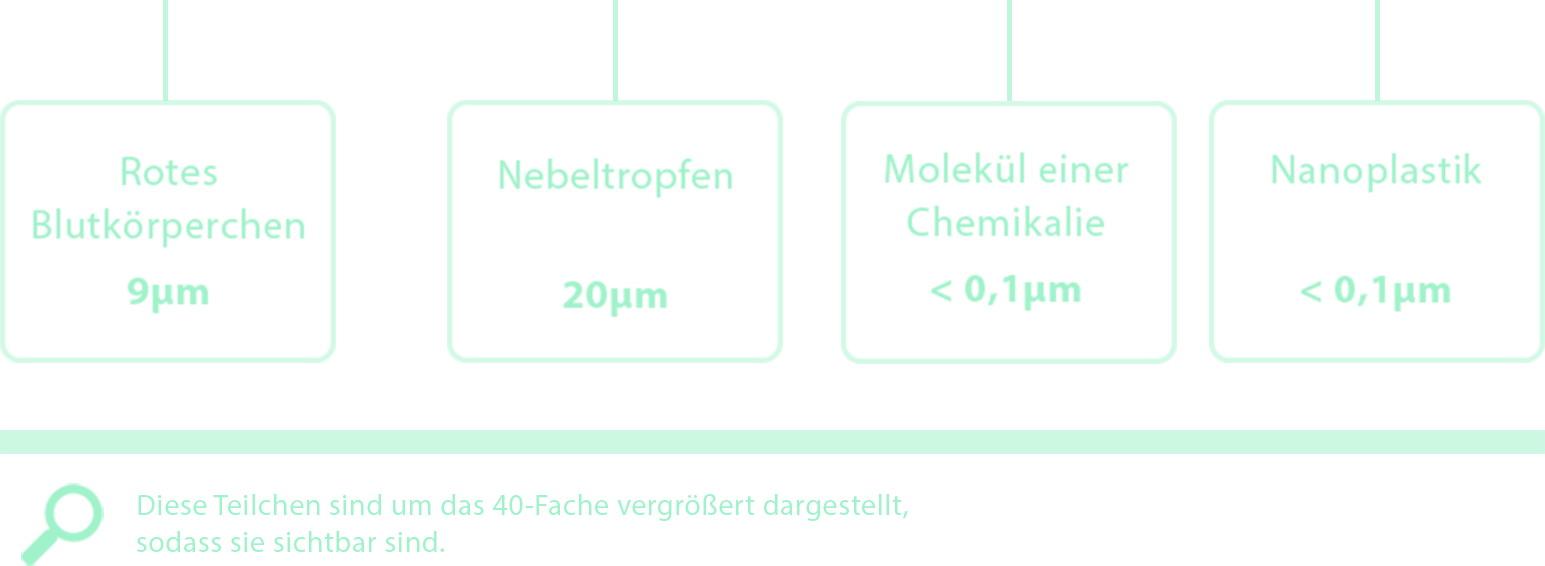
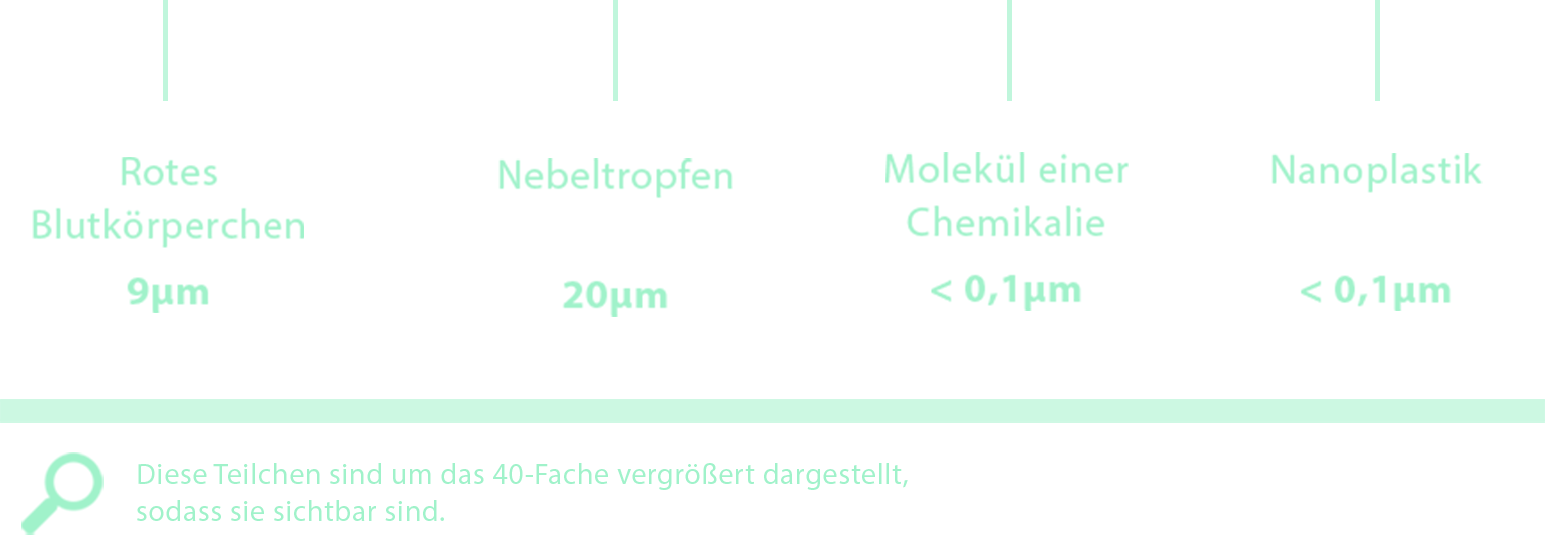
overall improvements

diff --git a/static/index.html b/static/index.html
@@ -212,14 +212,14 @@
          data-10100="top: -100%;">
 
         <img src="new_images/third/HG_Verlauf_Screen3.png"
-             style="top:0%; left: 0%; width:100%;"
+             style="top:0%; left: 0%; width:100%; height: 100%;"
                 data-5500="opacity: 0;"
                 data-6000="opacity: 1;"
                 data-9000="opacity: 1;"
                 data-9500="opacity: 0;">
 
         <img src="new_images/third/Textkasten_Screen_3.png"
-             style="top:13.2%; left: 7%; height:26.4%;"
+             style="top:12.4%; left: 9.2%; height:17.7%;"
                 data-5500="opacity: 0;"
                 data-6500="opacity: 1;">
 
@@ -229,16 +229,16 @@
              style="top:11.4%; left: 9.7%; height:79.8%; animation-delay: 0.5s;">
 
         <img src="new_images/third/Beschriftung_Nicht vergrößerte Teilchen.png"
-             style="top:11.4%; left: 9.7%; height:79.8%;">
+             style="top:11.4%; left: 10%; height:79.8%;">
 
         <img src="new_images/third/Vergrößerte Teilchen.png"
              class="wiggle"
-             style="left: 21.7%; top: 47.1%; height:13.6%; animation-delay: 0.1s; .transform-origin(50%, 50%);"
+             style="left: 21.5%; top: 46.6%; height:13.6%; animation-delay: 0.1s; .transform-origin(50%, 50%);"
              data-6500="opacity: 0;"
              data-7500="opacity: 1;">
 
         <img src="new_images/third/Beschriftung_Vergrößerte Teilchen.png"
-             style="top:61.2%; left: 19.8%; height:26.2%; animation-delay: 0.12s;"
+             style="top:62%; left: 19.8%; height:24.7%; animation-delay: 0.12s;"
              data-7500="top:100%;"
              data-8500="top:61.7%;">
 
@@ -432,10 +432,10 @@
                  The important thing is to assign center_image class to the parent of the image-->
 
             <div class="side_text"
-                 style="width: 30%;  height: 100%; position: relative;">
+                 style="width: 30%;  height: 100%; position: relative; background-color: #322d3a;">
 
                 <img src="new_images/sixth/Textkasten_Überschrift_Screen 6.png"
-                style="width: 80%; margin: 5% auto;" />
+                style="margin: 7.4% 15% 5% 15%;" />
 
                 <span class="icon_toggle_container">
                     <p style="width: 30px; margin: 0;"></p>
@@ -496,15 +496,23 @@
 
             <div class="center_text"
                  style="width: 70%;  height: 100%; position: relative;">
+
                 <img id="health_toggle"
                      class="toggle_button"
                      src="new_images/sixth/Button_Auswirkungen.png"
+                     style="position: absolute; top: 4.7%; left: 4.7%; height: 4.3%; margin: 0;"
                      onclick="toggle_health_products()"/>
 
 
                 <img id="health_issue_picture"
-                     src="image/Screen_6_Menschen_vorne.png"
+                     src=""
                      style="width: 70%; margin: auto;">
+
+
+                <img id="health_label"
+                     src="new_images/sixth/Box_BPA_Kunststoffarten.png"
+                     style="position: absolute; top: 4.7%; right: 0%; height: 4.3%;">
+
             </div>
 
 
@@ -568,7 +576,7 @@
             <br>
             Diese Website entstand im Rahmen einer Lehrveranstaltung
             (Datenvisualisierung) an der Hochschule Augsburg. An diesem Projekt nahmen
-            Studierende der Masterstudiengänge interaktive Mediensysteme und
+            Studierende der Masterstudiengänge Interaktive Mediensysteme und
             Informatik teil. Die Betreuung erfolgte durch Herrn Prof. Wolfgang
             Kowarschick und Herrn Prof. Michael Stoll.
 
@@ -587,33 +595,14 @@
 
 
         <img src="new_images/ninth/Quellen.png"
-             style="width: 18%; top: 11.7%; left: 40%;">
+             style="width: 8.2%; top: 22%; left: 13.6%;">
 
 
-        <ol class="quell"
-            style="width: 80%; top: 22%; left: 8%; position: relative;">
-            <li>
-                Einleitung: <br/>Plastic Strategy A European Strategy for Plastics in a Circular Economy. [(accessed on 3 December 2019)]; Communication from the Commission to the European Parliament, the Council, the European Economic and Social Committee and the Committee of the Regions. Brussels, January 16th 2018 COM (2018) Available online: <a href="https://ec.europa.eu/environment/circular-economy/pdf/plastics-strategy.pdf">https://ec.europa.eu/environment/circular-economy/pdf/plastics-strategy.pdf</a>.
-            </li>
-            <li>
-                Was macht Plastik so gefährlich?: <br/>Roscam A.M. Plastic Soup: An Atlas of Ocean Pollution. Island Press; Washington, DC, USA: Covelo, CA, USA: London, OH, USA: 2019. ISBN-10: 1642830089   Titel anhand dieser ISBN in Citavi-Projekt übernehmen . [Google Scholar]
-            </li>
-            <li>
-                Größenvergleich: <br/>Wagner M., Lambert S. The Handbook of Environmental Chemistry. Volume 58 Springer Open; Cham, Switzerland: 2018. Freshwater microplastics. Emerging environmental contaminants? [Google Scholar]
-            </li>
-            <li>
-                Kontakt Arten & Stoffen: <br/>Zalasiewicz J., Waters C.N., Do Sul I.J.A., Corcoran P.L., Barnosky A.D., Cearreta A., Edgeworth M., Gałuszka A., Jeandel C., Leinfelder R., et al. The geological cycle of plastics and their use as a stratigraphic indicator of the Anthropocene. Anthropocene. 2016;13:4–17. doi: 10.1016/j.ancene.2016.01.002 Titel anhand dieser DOI in Citavi-Projekt übernehmen
-            </li>
-            <li>
-                Anschauliche Kontakte: <br/>Roscam A.M. Plastic Soup: An Atlas of Ocean Pollution. Island Press; Washington, DC, USA: Covelo, CA, USA: London, OH, USA: 2019. ISBN-10: 1642830089   Titel anhand dieser ISBN in Citavi-Projekt übernehmen . [Google Scholar]
-            </li>
-            <li>
-                Auswirkungen & Produkte: <br/>Wagner M., Lambert S. The Handbook of Environmental Chemistry. Volume 58 Springer Open; Cham, Switzerland: 2018. Freshwater microplastics. Emerging environmental contaminants? [Google Scholar]
-            </li>
-            <li>
-                Fazit: <br/>Zalasiewicz J., Waters C.N., Do Sul I.J.A., Corcoran P.L., Barnosky A.D., Cearreta A., Edgeworth M., Gałuszka A., Jeandel C., Leinfelder R., et al. The geological cycle of plastics and their use as a stratigraphic indicator of the Anthropocene. Anthropocene. 2016;13:4–17. doi: 10.1016/j.ancene.2016.01.002 Titel anhand dieser DOI in Citavi-Projekt übernehmen
-            </li>
-        </ol>
+        <img src="new_images/ninth/Quellen_hardcoded.png"
+             style="width: 75.9%; top: 33.5%; left: 13.6%;">
+
+
+
 
     </div>
 
@@ -635,12 +624,12 @@
         data-10100="background: hsl(318, 22%, 88%);"
         data-17700="background: hsl(318, 22%, 88%);"
 
-        data-18300="background: hsl(290, 13%, 18%);"
-        data-20300="background: hsl(290, 13%, 18%);"
+        data-18300="background: hsl(263, 13%, 24%);"
+        data-20300="background: hsl(263, 13%, 24%);"
 
         data-20900="background: hsl(320, 16%, 82%);"
         data-23300="background: hsl(320, 16%, 82%);"
-         
+
         data-23900="background: hsl(318, 22%, 88%);"
 
     >

diff --git a/static/js.js b/static/js.js
@@ -243,6 +243,9 @@ var health_toggle_persistence = true;
 
 function toggle_health(num_issue = -1) {
 
+
+    // handle the persistence thing
+    // if no number is provided, use the one that has been saved last time
     if(num_issue == -1){
         num_issue = num_issue_persistence;
     } else {
@@ -252,31 +255,32 @@ function toggle_health(num_issue = -1) {
     var issues = ["bpa", "fsm", "pht", "hm"];
     var colors = ["#43323E", "#43323E", "#43323E", "43323E"];
 
-    var buttons = ["new_images/sixth/Bisphenol.png", "new_images/sixth/Flammschutzmittel.png",
-                "new_images/sixth/Phthalate.png","new_images/sixth/Schwermetalle.png"];
-    var buttons_aktiv = ["new_images/sixth/Bisphenol_aktiv.png", "new_images/sixth/Flammschutzmittel_aktiv.png",
-                "new_images/sixth/Phthalate_aktiv.png","new_images/sixth/Schwermetalle_aktiv.png"];
-    console.log("issue is: " + issues[num_issue]);
+    var buttons = ["new_images/sixth/Bisphenol.png",
+                    "new_images/sixth/Flammschutzmittel.png",
+                    "new_images/sixth/Phthalate.png",
+                    "new_images/sixth/Schwermetalle.png"];
 
+    var buttons_aktiv = ["new_images/sixth/Bisphenol_aktiv.png",
+                    "new_images/sixth/Flammschutzmittel_aktiv.png",
+                    "new_images/sixth/Phthalate_aktiv.png",
+                    "new_images/sixth/Schwermetalle_aktiv.png"];
+
+    // not used any more: this was part of changing the textbox background
+    console.log("issue is: " + issues[num_issue]);
     document.getElementById("health_info_box").style.backgroundColor = colors[num_issue];
 
+    // loop over all four available chemical buttons and change the active/passive state
     for(var i = 0; i < issues.length; i++) {
 
         var name = issues[i] + "_button_health";
         var elem = document.getElementById(name);
 
         if(i == num_issue){
-
+            // case true: this is the button that was pressed
             elem.childNodes[0].src = buttons_aktiv[i];
-
-            //elem.classList.remove("passive");
-            //elem.classList.add("active");
         } else {
-
+            // case false: this is a button that is passive, but has probably been active before. re-render to be sure
             elem.childNodes[0].src = buttons[i];
-
-            //elem.classList.remove("active");
-            //elem.classList.add("passive");
         }
 
 
@@ -294,6 +298,7 @@ function toggle_health(num_issue = -1) {
     }
 
 
+    // these are hardcoded paths to the image sources
     var pictures = ["new_images/sixth/Beschriftung_BPA.png",
     "new_images/sixth/Beschriftung_Flammschutzmittel.png",
     "new_images/sixth/Beschriftung_Phthalate.png",
@@ -304,11 +309,22 @@ function toggle_health(num_issue = -1) {
     "new_images/sixth/Icons Phthalate.png",
     "new_images/sixth/Icons Schwermetalle.png"];
 
+    var labels = ["new_images/sixth/Box_BPA_Kunststoffarten.png",
+    "new_images/sixth/Box_Flammschutzmittel.png",
+    "new_images/sixth/Box_Phthalate.png",
+    "new_images/sixth/Box_Schwermetalle.png"];
+
+
     if(health_toggle_persistence){
-        var picture = document.getElementById("health_issue_picture").src = pictures[num_issue];
+        // case 1: we want to see the persons and health issues
+        document.getElementById("health_issue_picture").src = pictures[num_issue];
     } else {
-        var picture = document.getElementById("health_issue_picture").src = products[num_issue];
+        //case two: we want to see the products
+        document.getElementById("health_issue_picture").src = products[num_issue];
     }
+
+    // in any case: we want to show the correct info label on the top right corner
+        document.getElementById("health_label").src = labels[num_issue];
 
 }
 
@@ -317,7 +333,11 @@ function toggle_health_products(){
     var togglebutton = document.getElementById("health_toggle");
     togglebutton.src = !health_toggle_persistence ? "new_images/sixth/Button_Auswirkungen.png" : "new_images/sixth/Button_Produkte.png";
 
+    // here the toggle logic is set
     health_toggle_persistence = !health_toggle_persistence;
+
+    // toggle_health is called by the buttons to change the shown content
+    // in this case, we just want to reload the page because product view has been toggled
     toggle_health();
 
 }

diff --git a/static/style.css b/static/style.css
@@ -166,17 +166,17 @@ body {
 
     background-color: #ad4d2f;
     height: 42%;
-    margin: 50px;
+    margin: 6% 15%;
     border-thickness: 10px;
     overflow: auto;
-    padding: 20px;
-    border-radius: 12px;
+    padding: 30px;
+    border-radius: 8px;
 
 }
 
 .health_info_box p {
 
-    color: white;
+    color: #b3ccff;
     font-size: 14pt;
     margin: auto;
     text-align: left;
@@ -226,7 +226,7 @@ body {
 
 .vNav {
     position: fixed;
-    top: 25%;
+    top: 33%;
     right: 2%;
     width: 50px;
     z-index: 9999;
@@ -243,18 +243,20 @@ body {
     position: relative;
     padding-bottom: 20px;
     padding-left: 35%;
-    color: rgb(113,135,133);
-
 }
 
 .vNav a{
     display: block;
-    width: 15px;
-    height: 15px;
+    width: 10px;
+    height: 10px;
     text-indent: -9999px;
+
     border-radius: 50%;
-    border: 2px solid;
-    border-color: rgb(113,135,133);
+    border: 3px solid;
+    border-color: rgba(135,145,243,1);
+
+    background-color: rgb(135,145,243, 1);
+
     text-decoration: none;
     cursor: pointer;
 }
@@ -267,7 +269,6 @@ body {
 
 .vNav a.active{
     border-radius: 50%;
-    background-color:  #8791F3;
     text-decoration: none;
 }
 
@@ -278,7 +279,7 @@ body {
     width: 100%;
     text-align: right;
     font-size: 1em;
-    color: rgb(0, 0, 0);
+    color: rgb(135,145,243, 1);
     display: none;
     font-family: 'Poppins', sans-serif;
     font-weight: 400;
